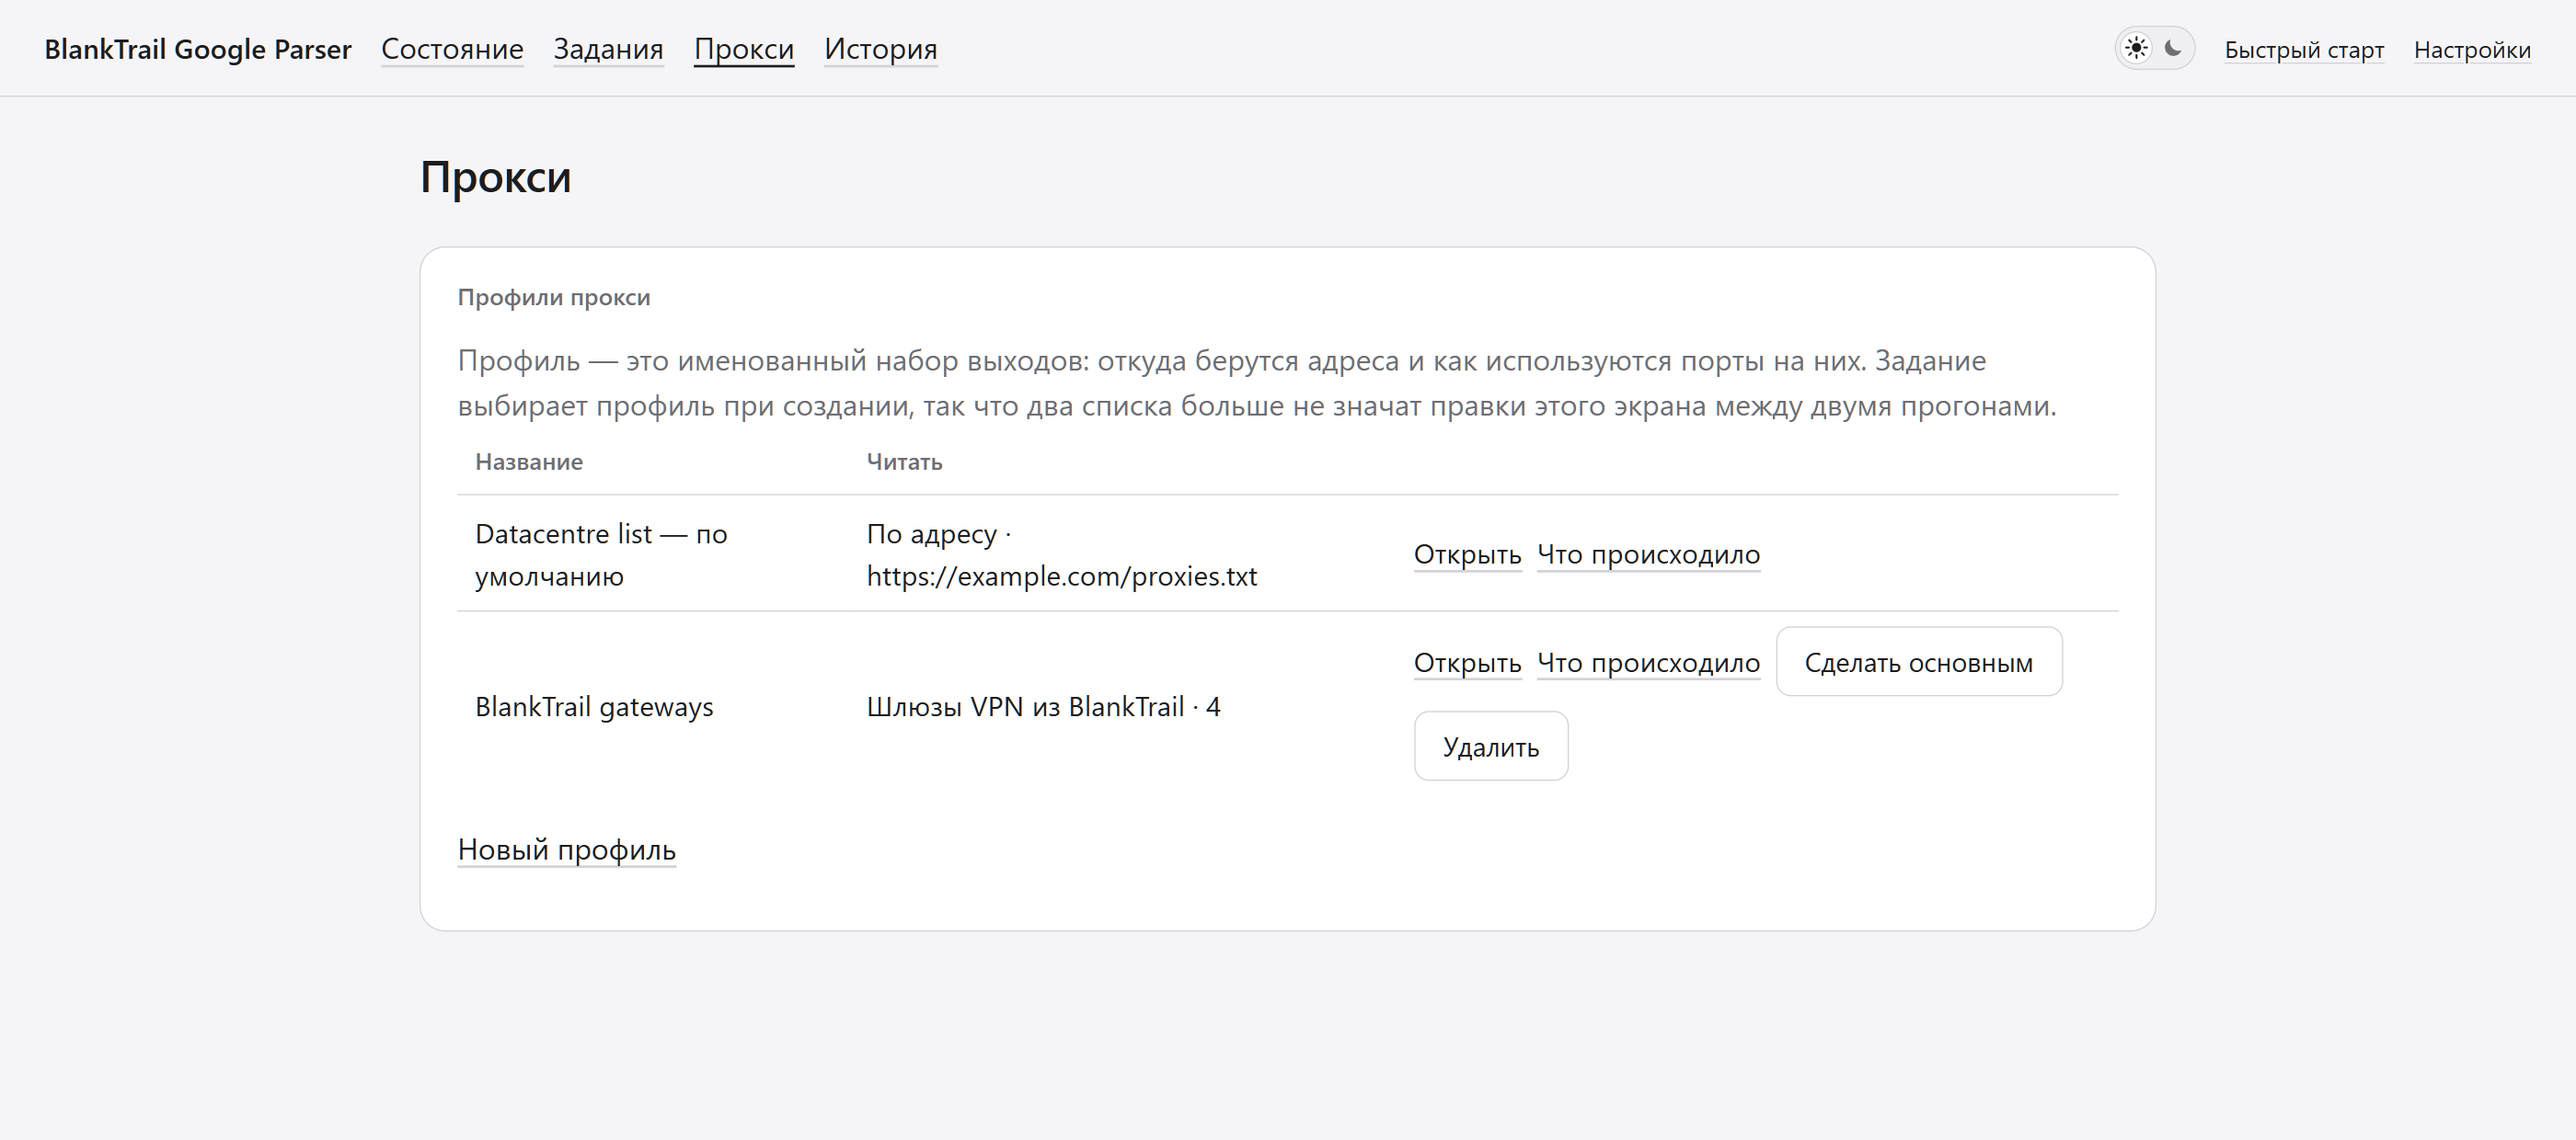
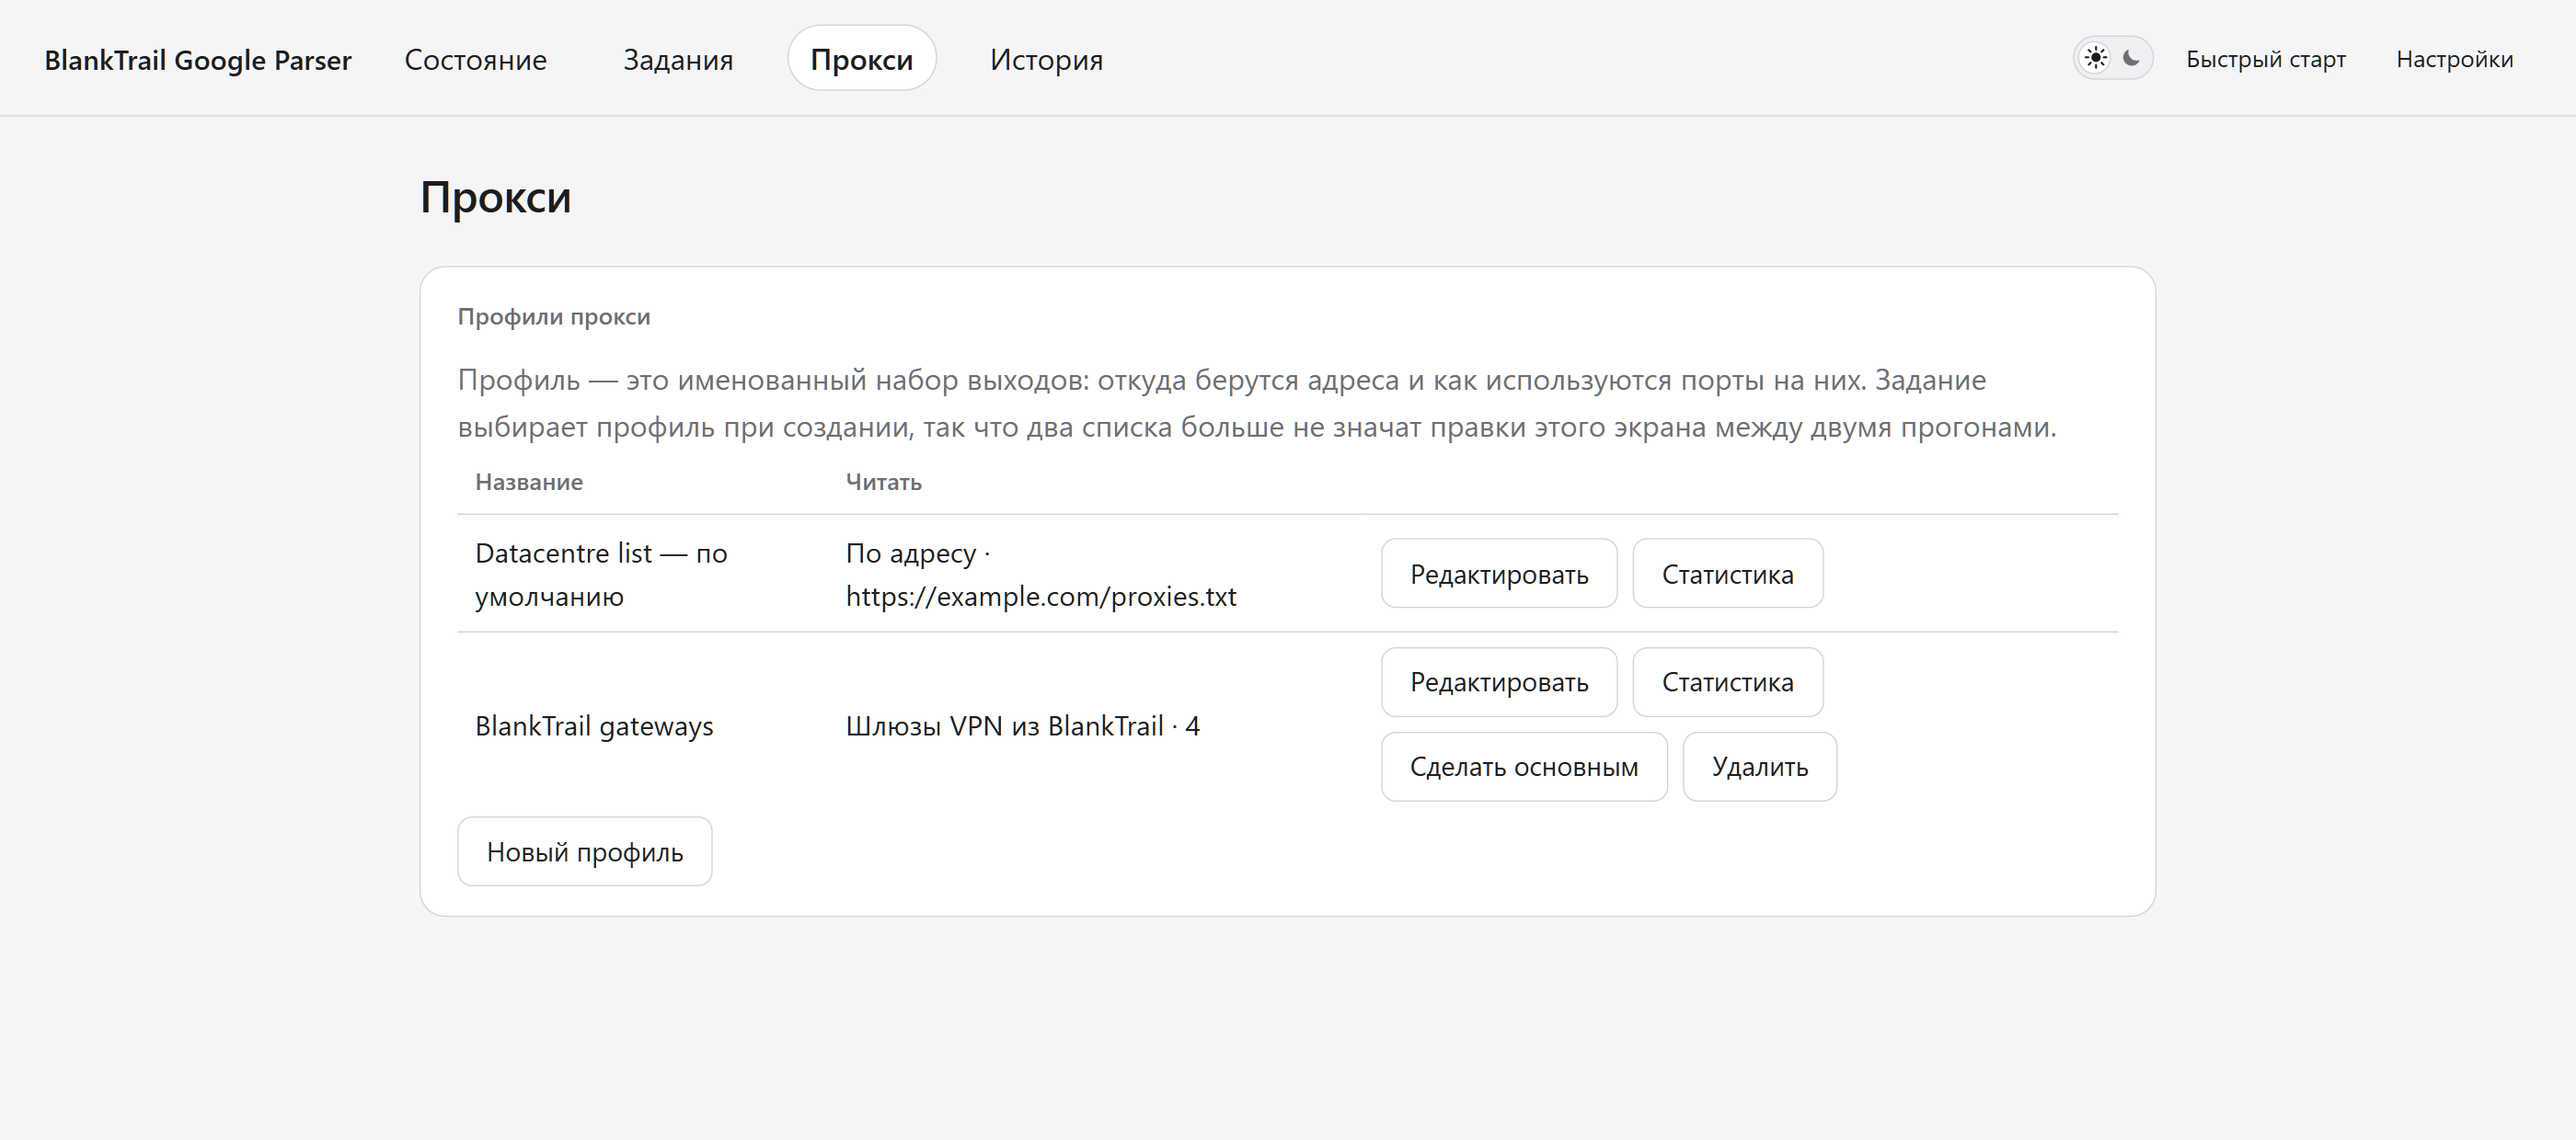
docs: retake the screenshots, and say who does the walking
The header is in every one of them and the strip of tabs is pills now, with the
current screen filled rather than underlined; a row of things to press is drawn
as a row of things to press. Both readmes now also say the part that changed
about the walk: it points at what to press and waits, and the reader is the one
who moves the program.

Measured again while the pictures were being taken: every screen, both
languages, nine widths from 1400px down to 320px, with the banners and without.
Nothing stands outside the window anywhere.

diff --git a/README.md b/README.md
@@ -106,8 +106,12 @@ it is off until you turn it on — see
 On a machine nothing has been run on yet it **walks you through the interface**:
 seven stops, each a note beside the thing it is talking about — the screens, the
 key, the exits, where a job is started, what a job asks for, and where to see
-that the machine can reach anything at all. One sentence a stop. Close it with
-the cross at any point; it is in the header afterwards for whenever it is wanted.
+that the machine can reach anything at all. One sentence a stop.
+
+It does not move the program for you. A stop on another screen outlines the
+press that leads there and waits; you press it, and the note follows you across
+and settles beside the next thing. Close it with the cross at any point; it is in
+the header afterwards for whenever it is wanted.
 
 ### Windows says it protected your PC
 
